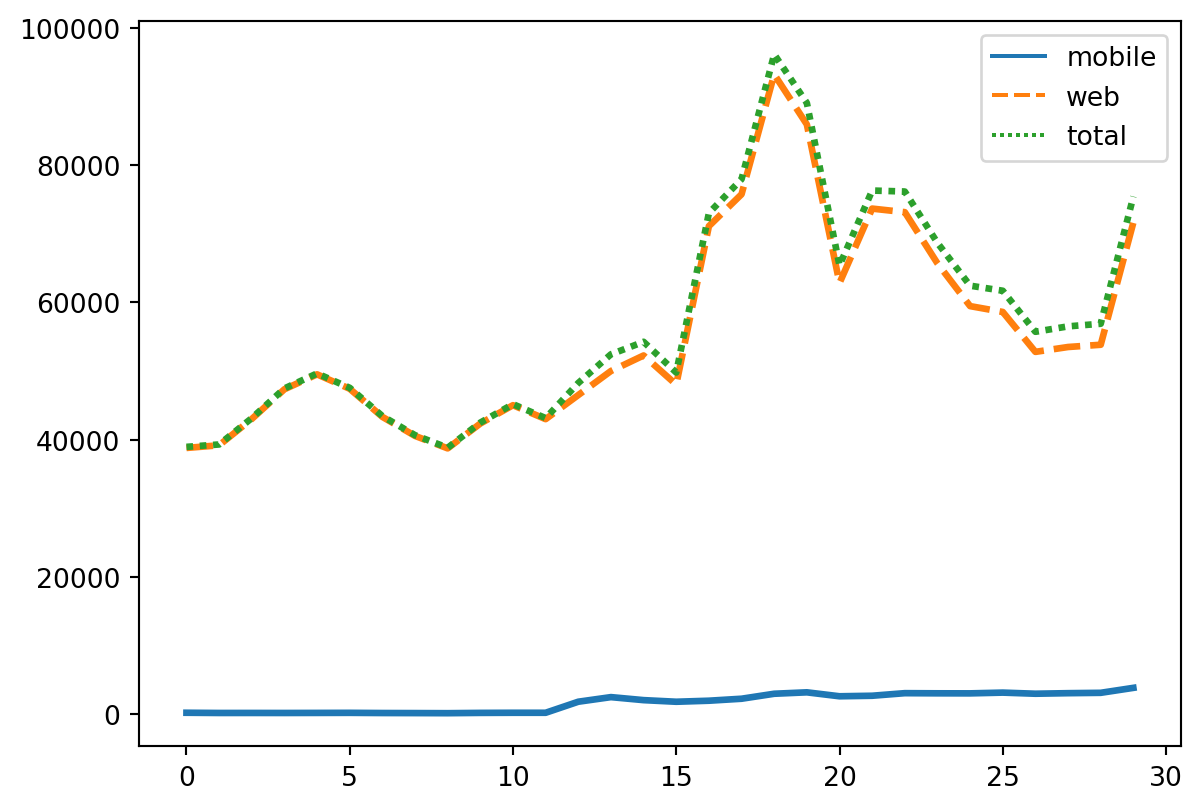
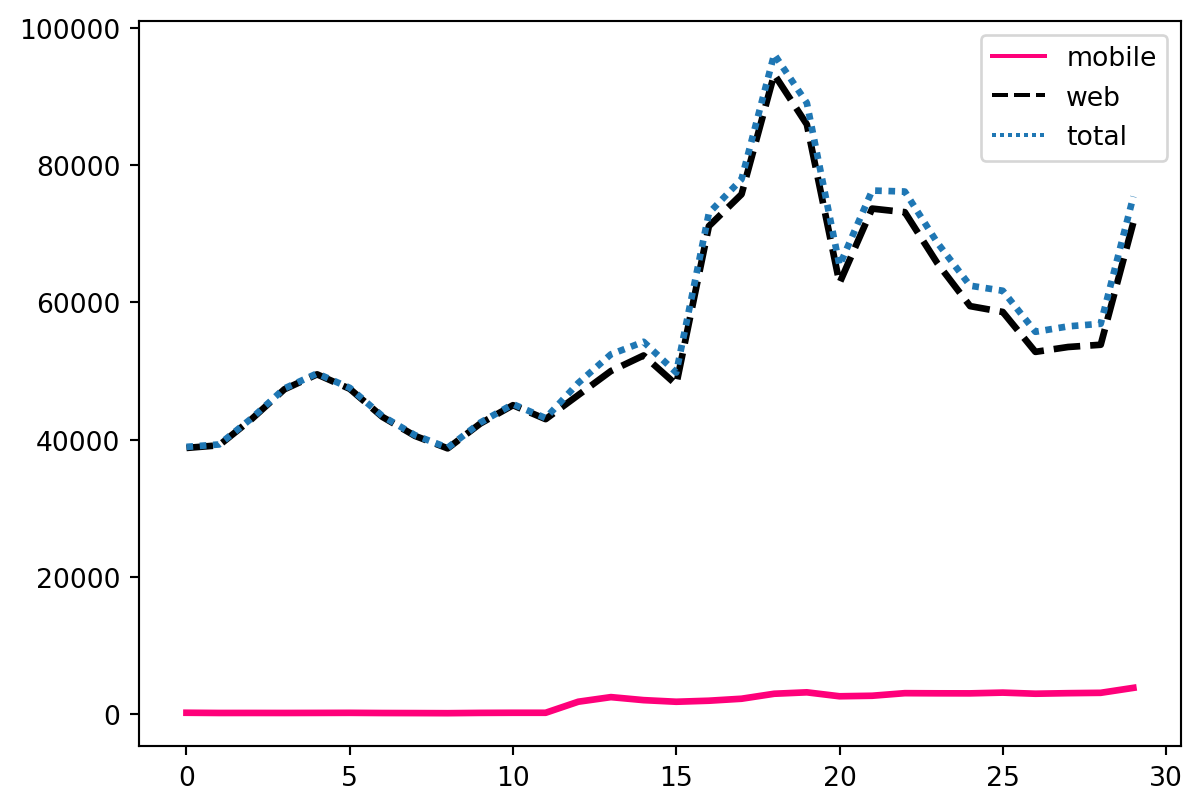
refining insights

diff --git a/docs/insights.html b/docs/insights.html
@@ -238,7 +238,8 @@ code span.wa { color: #60a0b0; font-weight: bold; font-style: italic; } /* Warni
 <h2 class="anchored" data-anchor-id="active-users">Active Users</h2>
 <p>Daily active users are still mostly web users.</p>
 <div class="cell" data-execution_count="2">
-<div class="sourceCode cell-code" id="cb1"><pre class="sourceCode python code-with-copy"><code class="sourceCode python"><span id="cb1-1"><a href="#cb1-1" aria-hidden="true" tabindex="-1"></a>sns.lineplot(data<span class="op">=</span>dau, palette<span class="op">=</span><span class="st">"tab10"</span>, linewidth<span class="op">=</span><span class="fl">2.5</span>)</span></code><button title="Copy to Clipboard" class="code-copy-button"><i class="bi"></i></button></pre></div>
+<div class="sourceCode cell-code" id="cb1"><pre class="sourceCode python code-with-copy"><code class="sourceCode python"><span id="cb1-1"><a href="#cb1-1" aria-hidden="true" tabindex="-1"></a>uniswap_pink <span class="op">=</span> <span class="st">"#FF007A"</span></span>
+<span id="cb1-2"><a href="#cb1-2" aria-hidden="true" tabindex="-1"></a>sns.lineplot(data<span class="op">=</span>dau, palette<span class="op">=</span>[uniswap_pink, <span class="st">"black"</span>, <span class="st">"tab:blue"</span>], linewidth<span class="op">=</span><span class="fl">2.5</span>)</span></code><button title="Copy to Clipboard" class="code-copy-button"><i class="bi"></i></button></pre></div>
 <div class="cell-output cell-output-display" data-execution_count="2">
 <pre><code>&lt;AxesSubplot:&gt;</code></pre>
 </div>
@@ -248,7 +249,7 @@ code span.wa { color: #60a0b0; font-weight: bold; font-style: italic; } /* Warni
 </div>
 <p>However, the mobile platform is seeing exponential growth.</p>
 <div class="cell" data-execution_count="3">
-<div class="sourceCode cell-code" id="cb3"><pre class="sourceCode python code-with-copy"><code class="sourceCode python"><span id="cb3-1"><a href="#cb3-1" aria-hidden="true" tabindex="-1"></a>sns.lineplot(data<span class="op">=</span>dau[[<span class="st">'day'</span>, <span class="st">'mobile'</span>]], palette<span class="op">=</span><span class="st">"tab10"</span>, linewidth<span class="op">=</span><span class="fl">2.5</span>)</span></code><button title="Copy to Clipboard" class="code-copy-button"><i class="bi"></i></button></pre></div>
+<div class="sourceCode cell-code" id="cb3"><pre class="sourceCode python code-with-copy"><code class="sourceCode python"><span id="cb3-1"><a href="#cb3-1" aria-hidden="true" tabindex="-1"></a>sns.lineplot(data<span class="op">=</span>dau[[<span class="st">'day'</span>, <span class="st">'mobile'</span>]], palette<span class="op">=</span>[uniswap_pink], linewidth<span class="op">=</span><span class="fl">2.5</span>)</span></code><button title="Copy to Clipboard" class="code-copy-button"><i class="bi"></i></button></pre></div>
 <div class="cell-output cell-output-display" data-execution_count="3">
 <pre><code>&lt;AxesSubplot:&gt;</code></pre>
 </div>
@@ -258,7 +259,7 @@ code span.wa { color: #60a0b0; font-weight: bold; font-style: italic; } /* Warni
 </div>
 <p>The mobile platform is notably more “sticky” though this metric could be skewed due to most of the DAUs being seen in the second half of the month. This is a metric to keep an eye on in the coming months.</p>
 <div class="cell" data-execution_count="4">
-<div class="sourceCode cell-code" id="cb5"><pre class="sourceCode python code-with-copy"><code class="sourceCode python"><span id="cb5-1"><a href="#cb5-1" aria-hidden="true" tabindex="-1"></a>sns.lineplot(data<span class="op">=</span>stickiness, palette<span class="op">=</span><span class="st">"tab10"</span>, linewidth<span class="op">=</span><span class="fl">2.5</span>)</span></code><button title="Copy to Clipboard" class="code-copy-button"><i class="bi"></i></button></pre></div>
+<div class="sourceCode cell-code" id="cb5"><pre class="sourceCode python code-with-copy"><code class="sourceCode python"><span id="cb5-1"><a href="#cb5-1" aria-hidden="true" tabindex="-1"></a>sns.lineplot(data<span class="op">=</span>stickiness, palette<span class="op">=</span>[uniswap_pink, <span class="st">"black"</span>, <span class="st">"tab:blue"</span>], linewidth<span class="op">=</span><span class="fl">2.5</span>)</span></code><button title="Copy to Clipboard" class="code-copy-button"><i class="bi"></i></button></pre></div>
 <div class="cell-output cell-output-display" data-execution_count="4">
 <pre><code>&lt;AxesSubplot:&gt;</code></pre>
 </div>
@@ -345,6 +346,9 @@ code span.wa { color: #60a0b0; font-weight: bold; font-style: italic; } /* Warni
 </section>
 <section id="swapping" class="level2">
 <h2 class="anchored" data-anchor-id="swapping">Swapping</h2>
+<p>The mobile product does not have enough market share to meaningfully compare it to the web product in absolute terms. Additionally, growth rates may be misleading until data can be observed for a longer time period.</p>
+<p>We can overlay the mobile market share on a different scale to observe general trends though. The following graph suggests some level of correlation between web and mobile market share while demonstrating what seems to be high levels of non-cannibalizing growth.</p>
+<p>Going forward, it may be important to not only track how much market share the mobile platform is capturing but also how much of that growth is at the expense of the web product.</p>
 <div class="cell" data-execution_count="7">
 <div class="sourceCode cell-code" id="cb10"><pre class="sourceCode python code-with-copy"><code class="sourceCode python"><span id="cb10-1"><a href="#cb10-1" aria-hidden="true" tabindex="-1"></a><span class="co"># Set the Uniswap branding colors</span></span>
 <span id="cb10-2"><a href="#cb10-2" aria-hidden="true" tabindex="-1"></a>uniswap_black <span class="op">=</span> <span class="st">"#000000"</span></span>

diff --git a/README.md b/README.md
@@ -1,6 +1,1 @@
 # Uniswap Labs Take-Home
-
-## Navigation
-
-1.  [Introduction]()
-    -   []()
